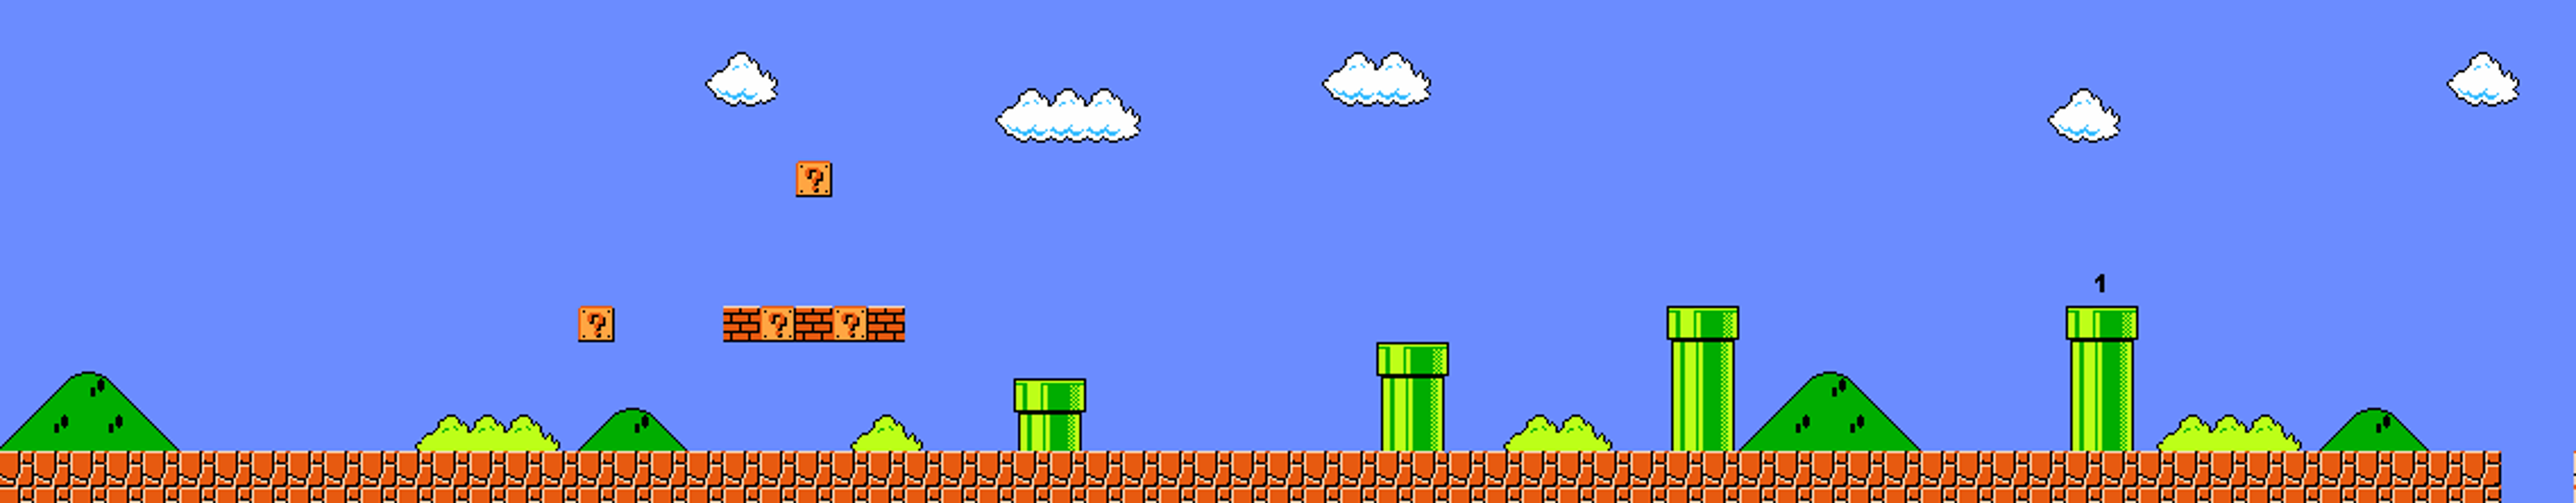
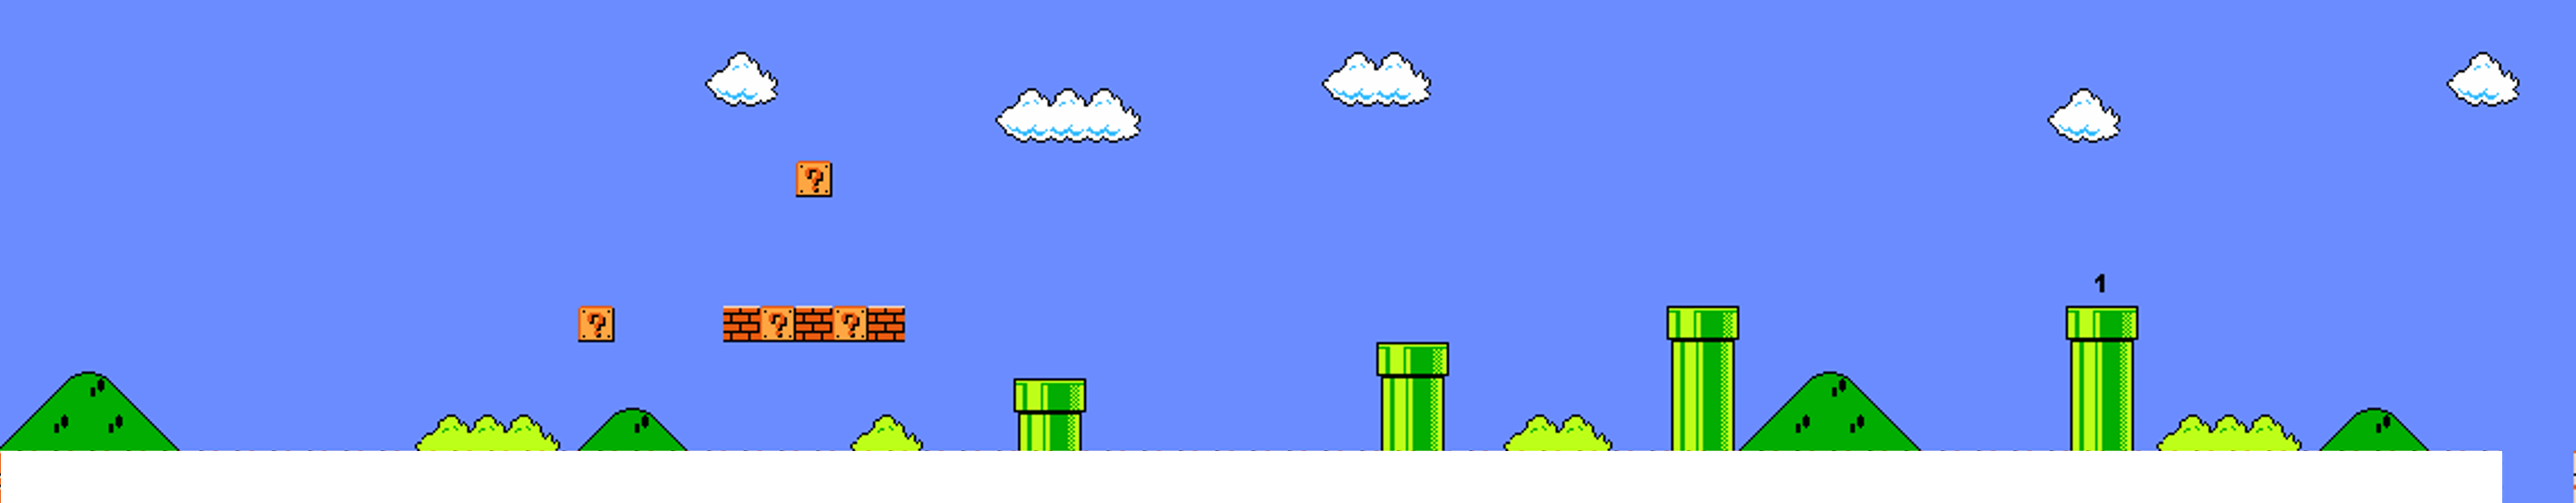
Updated asset loading and management. Atlas setup.

Changed region(s): [[0.0, 0.87, 0.9899, 1.0]]

diff --git a/Scripts/scenes/play.ts b/Scripts/scenes/play.ts
@@ -4,7 +4,10 @@ module scenes {
         private _bg : createjs.Bitmap;
         private _groundPosition : number;
 
-        private _player : objects.GameObject;
+        private _ground : createjs.Bitmap;
+        private _player : objects.Player;
+
+        private _pipes : objects.Pipe[];
 
         private _scrollableObjContainer : createjs.Container;
 
@@ -14,13 +17,27 @@ module scenes {
         }
 
         public start() : void {
-            this._bg = new createjs.Bitmap(assets.getResult("floor"));
+            this._bg = new createjs.Bitmap(assets.getResult("bg"));
+            this._ground = new createjs.Bitmap(assets.getResult("floor"));
             this._scrollableObjContainer = new createjs.Container();
-            this._groundPosition = 538;
-            this._player = new objects.GameObject(atlas, "player");
+            this._player = new objects.Player("player");
+            
+            this._pipes = [];
+            this._pipes.push(new objects.Pipe(config.PipeSize.SMALL, new objects.Vector2(1208, 450)));
+            this._pipes.push(new objects.Pipe(config.PipeSize.MEDIUM, new objects.Vector2(1640, 408)));
+            this._pipes.push(new objects.Pipe(config.PipeSize.LARGE, new objects.Vector2(1984,363)));
+            this._pipes.push(new objects.Pipe(config.PipeSize.LARGE, new objects.Vector2(2458, 363)));
+
+
+            this._ground.y = 538;
 
             this._scrollableObjContainer.addChild(this._bg);
             this._scrollableObjContainer.addChild(this._player);
+            this._scrollableObjContainer.addChild(this._ground);
+            for(let pipe of this._pipes) {
+                this._scrollableObjContainer.addChild(pipe);
+            }
+
             this.addChild(this._scrollableObjContainer);
 
             window.onkeydown = this._onKeyDown;
@@ -33,14 +50,14 @@ module scenes {
 
             this._player.update();
 
-            if(controls.UP) {
-                this._scrollBGForward();
-            }
-            if(controls.DOWN) { 
+            if(controls.LEFT) {
+                this._player.moveLeft();
                 this._scrollBGBackward();
             }
-
-            
+            if(controls.RIGHT) { 
+                this._player.moveRight();
+                this._scrollBGForward();
+            }
         }
 
         private _onKeyDown(event: KeyboardEvent) : void {
@@ -89,12 +106,12 @@ module scenes {
 
         private _scrollBGForward() : void{
             if(this._scrollableObjContainer.regX < 3071 - 815)
-                this._scrollableObjContainer.regX += 10;
+                this._scrollableObjContainer.regX += 1;
         }
 
         private _scrollBGBackward() : void{
             if(this._scrollableObjContainer.regX > 0.0)
-                this._scrollableObjContainer.regX -= 10;
+                this._scrollableObjContainer.regX -= 1;
         }
     }
 }

diff --git a/Scripts/scenes/play.js b/Scripts/scenes/play.js
@@ -12,12 +12,23 @@ var scenes;
             this.start();
         }
         Play.prototype.start = function () {
-            this._bg = new createjs.Bitmap(assets.getResult("floor"));
+            this._bg = new createjs.Bitmap(assets.getResult("bg"));
+            this._ground = new createjs.Bitmap(assets.getResult("floor"));
             this._scrollableObjContainer = new createjs.Container();
-            this._groundPosition = 538;
-            this._player = new objects.GameObject(atlas, "player");
+            this._player = new objects.Player("player");
+            this._pipes = [];
+            this._pipes.push(new objects.Pipe(config.PipeSize.SMALL, new objects.Vector2(1208, 450)));
+            this._pipes.push(new objects.Pipe(config.PipeSize.MEDIUM, new objects.Vector2(1640, 408)));
+            this._pipes.push(new objects.Pipe(config.PipeSize.LARGE, new objects.Vector2(1984, 363)));
+            this._pipes.push(new objects.Pipe(config.PipeSize.LARGE, new objects.Vector2(2458, 363)));
+            this._ground.y = 538;
             this._scrollableObjContainer.addChild(this._bg);
             this._scrollableObjContainer.addChild(this._player);
+            this._scrollableObjContainer.addChild(this._ground);
+            for (var _i = 0, _a = this._pipes; _i < _a.length; _i++) {
+                var pipe = _a[_i];
+                this._scrollableObjContainer.addChild(pipe);
+            }
             this.addChild(this._scrollableObjContainer);
             window.onkeydown = this._onKeyDown;
             window.onkeyup = this._onKeyUp;
@@ -25,11 +36,13 @@ var scenes;
         };
         Play.prototype.update = function () {
             this._player.update();
-            if (controls.UP) {
-                this._scrollBGForward();
-            }
-            if (controls.DOWN) {
+            if (controls.LEFT) {
+                this._player.moveLeft();
                 this._scrollBGBackward();
+            }
+            if (controls.RIGHT) {
+                this._player.moveRight();
+                this._scrollBGForward();
             }
         };
         Play.prototype._onKeyDown = function (event) {
@@ -76,11 +89,11 @@ var scenes;
         };
         Play.prototype._scrollBGForward = function () {
             if (this._scrollableObjContainer.regX < 3071 - 815)
-                this._scrollableObjContainer.regX += 10;
+                this._scrollableObjContainer.regX += 1;
         };
         Play.prototype._scrollBGBackward = function () {
             if (this._scrollableObjContainer.regX > 0.0)
-                this._scrollableObjContainer.regX -= 10;
+                this._scrollableObjContainer.regX -= 1;
         };
         return Play;
     }(objects.Scene));

diff --git a/Scripts/Core/game.js b/Scripts/Core/game.js
@@ -9,8 +9,9 @@ var currentScene;
 var scene;
 // Preload Assets required
 var assetData = [
-    { id: "floor", src: "../../Assets/images/allScene.png" },
-    { id: "player", src: "../../Assets/images/player.png" }
+    { id: "bg", src: "../../Assets/images/allScene.png" },
+    { id: "floor", src: "../../Assets/images/floor.png" },
+    { id: "atlas", src: "../../Assets/images/Test.png" }
 ];
 function preload() {
     // Create a queue for assets being loaded
@@ -29,12 +30,32 @@ function init() {
     createjs.Ticker.on("tick", this.gameLoop, this);
     var atlasData = {
         "images": [
-            assets.getResult("player")
+            /*
+            assets.getResult("player"),
+            assets.getResult("block"),
+            assets.getResult("pipe1.png"),
+            assets.getResult("pipe2.png"),
+            assets.getResult("pipe3.png"),
+            assets.getResult("qBlock")
+            */
+            assets.getResult("atlas")
         ],
         "frames": [
-            [0, 0, 43, 86, 0, 0, 0]
+            [40, 0, 43, 86, 0, 0, 0],
+            [83, 0, 45, 45, 0, 0, 0],
+            [0, 216, 87, 87, 0, 0, 0],
+            [0, 86, 87, 130, 0, 0, 0],
+            [0, 303, 93, 175, 0, 0, 0],
+            [0, 0, 40, 45, 0, 0, 0]
         ],
-        "animations": {},
+        "animations": {
+            "player": { "frames": [0] },
+            "block": { "frames": [1] },
+            "pipe1": { "frames": [2] },
+            "pipe2": { "frames": [3] },
+            "pipe3": { "frames": [4] },
+            "qBlock": { "frames": [5] }
+        },
     };
     atlas = new createjs.SpriteSheet(atlasData);
     scene = config.Scene.GAME;

diff --git a/Scripts/Core/game.ts b/Scripts/Core/game.ts
@@ -13,8 +13,9 @@ var scene: number;
 
 // Preload Assets required
 var assetData:objects.Asset[] = [
-    {id: "floor", src: "../../Assets/images/allScene.png"},
-    {id: "player", src: "../../Assets/images/player.png"}
+    {id: "bg", src: "../../Assets/images/allScene.png"},
+    {id: "floor", src: "../../Assets/images/floor.png"},
+    {id: "atlas", src: "../../Assets/images/Test.png"}
 ];
 
 function preload() {
@@ -36,12 +37,32 @@ function init() {
 
     let atlasData = {
         "images": [
-            assets.getResult("player")
+            /*
+            assets.getResult("player"),
+            assets.getResult("block"),
+            assets.getResult("pipe1.png"),
+            assets.getResult("pipe2.png"),
+            assets.getResult("pipe3.png"),
+            assets.getResult("qBlock")
+            */
+            assets.getResult("atlas")
         ],
         "frames":[
-            [0,0,43,86,0,0,0]
+            [40,0,43,86,0,0,0], 
+            [83,0,45,45,0,0,0],
+            [0,216,87,87,0,0,0],
+            [0,86,87,130,0,0,0],
+            [0,303,93,175,0,0,0],
+            [0,0,40,45,0,0,0]
         ],
-        "animations":{}, 
+        "animations":{
+            "player" : { "frames" : [0] },
+            "block" : { "frames" : [1] },
+            "pipe1" : { "frames" : [2] },
+            "pipe2" : { "frames" : [3] },
+            "pipe3" : { "frames" : [4] },
+            "qBlock" : { "frames" : [5] }
+        }, 
     }
 
     atlas = new createjs.SpriteSheet(atlasData);

diff --git a/Scripts/objects/player.js b/Scripts/objects/player.js
@@ -3,8 +3,8 @@ var __extends = (this && this.__extends) || function (d, b) {
     function __() { this.constructor = d; }
     d.prototype = b === null ? Object.create(b) : (__.prototype = b.prototype, new __());
 };
-var Objects;
-(function (Objects) {
+var objects;
+(function (objects) {
     var Player = (function (_super) {
         __extends(Player, _super);
         function Player(imgString) {
@@ -13,11 +13,16 @@ var Objects;
         Player.prototype.start = function () {
         };
         Player.prototype.update = function () {
-            this.position.y += 5;
-            this.update();
+            this.y += 9.81;
+        };
+        Player.prototype.moveRight = function () {
+            this.x += 5;
+        };
+        Player.prototype.moveLeft = function () {
+            this.x -= 5;
         };
         return Player;
     }(objects.GameObject));
-    Objects.Player = Player;
-})(Objects || (Objects = {}));
+    objects.Player = Player;
+})(objects || (objects = {}));
 //# sourceMappingURL=player.js.map

diff --git a/Scripts/objects/pipe.js b/Scripts/objects/pipe.js
@@ -1,0 +1,25 @@
+var __extends = (this && this.__extends) || function (d, b) {
+    for (var p in b) if (b.hasOwnProperty(p)) d[p] = b[p];
+    function __() { this.constructor = d; }
+    d.prototype = b === null ? Object.create(b) : (__.prototype = b.prototype, new __());
+};
+var objects;
+(function (objects) {
+    var PipeSize;
+    (function (PipeSize) {
+        PipeSize[PipeSize["SMALL"] = 0] = "SMALL";
+        PipeSize[PipeSize["MEDIUM"] = 1] = "MEDIUM";
+        PipeSize[PipeSize["LARGE"] = 2] = "LARGE";
+    })(PipeSize || (PipeSize = {}));
+    var Pipe = (function (_super) {
+        __extends(Pipe, _super);
+        function Pipe(pipeSize, defaultPosition) {
+            _super.call(this, atlas, pipeSize);
+            this.position.x = defaultPosition.x;
+            this.position.y = defaultPosition.y;
+        }
+        return Pipe;
+    }(objects.GameObject));
+    objects.Pipe = Pipe;
+})(objects || (objects = {}));
+//# sourceMappingURL=pipe.js.map

diff --git a/Scripts/objects/player.ts b/Scripts/objects/player.ts
@@ -1,4 +1,4 @@
-module Objects {
+module objects {
     export class Player extends objects.GameObject {
         constructor(imgString : string) {
             super(atlas, imgString);
@@ -9,9 +9,15 @@ module Objects {
         }
 
         public update() : void {
-            this.position.y += 5;
+            this.y += 9.81;
+        }
 
-            this.update();
+        public moveRight() : void {
+            this.x += 5;
+        }
+
+        public moveLeft() : void {
+            this.x -= 5;
         }
     }
 }

diff --git a/Scripts/objects/pipe.ts b/Scripts/objects/pipe.ts
@@ -1,0 +1,13 @@
+module objects {
+    enum PipeSize {SMALL, MEDIUM, LARGE}
+    
+    export class Pipe extends objects.GameObject {
+        private _pipeSize : string;
+
+        constructor(pipeSize : string, defaultPosition : objects.Vector2) {
+            super(atlas, pipeSize);
+            this.position.x = defaultPosition.x;
+            this.position.y = defaultPosition.y;
+        }
+    }
+}

diff --git a/Scripts/config/config.js b/Scripts/config/config.js
@@ -28,5 +28,14 @@ var config;
         return Game;
     }());
     config.Game = Game;
+    var PipeSize = (function () {
+        function PipeSize() {
+        }
+        PipeSize.SMALL = "pipe1";
+        PipeSize.MEDIUM = "pipe2";
+        PipeSize.LARGE = "pipe3";
+        return PipeSize;
+    }());
+    config.PipeSize = PipeSize;
 })(config || (config = {}));
 //# sourceMappingURL=config.js.map

diff --git a/Scripts/Core/_reference.js b/Scripts/Core/_reference.js
@@ -10,7 +10,7 @@
 /// <reference path="../objects/enemy.ts" />
 /// <reference path="../objects/gameobject.ts" />
 /// <reference path="../objects/vector2.ts" />
-/// <reference path="../objects/poof.ts" />
+/// <reference path="../objects/pipe.ts" />
 /// <reference path="../scenes/menu.ts" />
 /// <reference path="../scenes/play.ts" /> 
 //# sourceMappingURL=_reference.js.map

diff --git a/index.html b/index.html
@@ -31,6 +31,8 @@
     <script src="Scripts/objects/scene.js"></script>
     <script src="Scripts/objects/enemy.js"></script>
     <script src="Scripts/objects/vector2.js"></script>
+    <script src="Scripts/objects/player.js"></script>
+    <script src="Scripts/objects/pipe.js"></script>
 
     <!-- Scene Scripts -->
     <script src="Scripts/scenes/menu.js"></script>

diff --git a/Scripts/Core/_reference.ts b/Scripts/Core/_reference.ts
@@ -12,7 +12,7 @@
 /// <reference path="../objects/enemy.ts" />
 /// <reference path="../objects/gameobject.ts" />
 /// <reference path="../objects/vector2.ts" />
-/// <reference path="../objects/poof.ts" />
+/// <reference path="../objects/pipe.ts" />
 
 
 /// <reference path="../scenes/menu.ts" />
